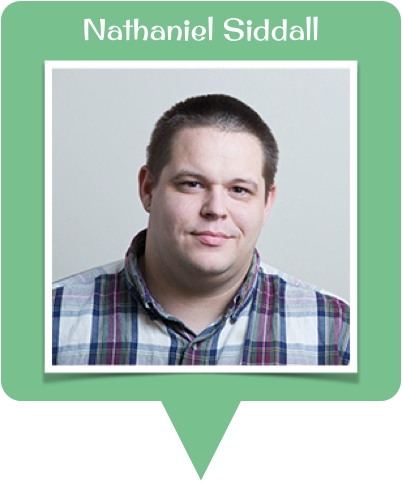
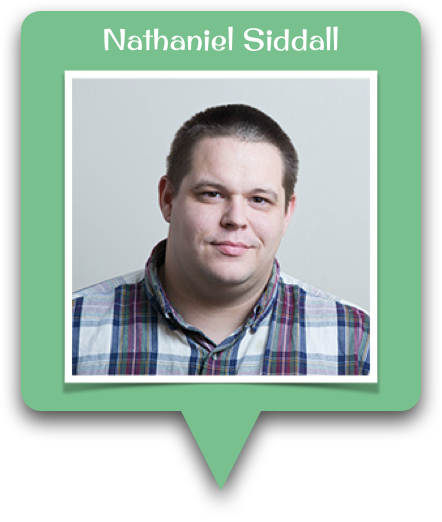
aboutus page layout complete

diff --git a/src/main/resources/templates/developers.html b/src/main/resources/templates/developers.html
@@ -10,11 +10,52 @@
 
 <nav th:replace="fragments :: navbar"></nav>
 
-<main>
-    <img id="sa-map" src="../img/old_sa.jpg" alt="map"/>
-    <div id="jenn"><img src="../img/Jennifer.png" alt="Jennifer"/></div>
-    <div id="wayne"><img src="../img/Nathaniel.png" alt="Nathaniel"/></div>
-    <div id="emily"><img src="../img/Emily.png" alt="Emily"/></div>
+<main class="row" id="about-us">
+    <div class='col'>
+        <img class="mx-auto d-block mt-2 shadows" src="../img/Jennifer.png" alt="Jennifer" id="jenn"/>
+        <div class="card mx-3 d-block shadows">
+            <div class="card-body">
+                <div class="row">
+                    <p class="text-center mx-2">I am a tenacious and avid problem solver who thrives under intense pressure. Data, programming, and solving problems make me happy because I am analytical, logical, highly organized and exceptionally detail-oriented. I am curious, always asking questions, and pushing for new innovative ways to accomplish tasks.</p>
+                </div>
+                <div class="row">
+                    <div class="col"><img class="mx-auto d-block" src="../img/linkedin.png" alt="Linkedin"/></div>
+                    <div class="col"><img class="mx-auto d-block" src="../img/github.png" alt="github"/></div>
+                    <div class="col"><img class="mx-auto d-block" src="../img/email.png" alt="email"/></div>
+                </div>
+            </div>
+        </div>
+    </div>
+    <div class='col'>
+        <img class="mx-auto d-block mt-2 shadows" src="../img/Nathaniel.png" alt="Nathaniel" id="wayne"/>
+        <div class="card mx-3 d-block shadows">
+            <div class="card-body">
+                <div class="row">
+                    <p class="text-center mx-2">I'm really awesome at all the things!</p>
+                </div>
+                <div class="row">
+                    <div class="col"><img class="mx-auto d-block" src="../img/linkedin.png" alt="Linkedin"/></div>
+                    <div class="col"><img class="mx-auto d-block" src="../img/github.png" alt="github"/></div>
+                    <div class="col"><img class="mx-auto d-block" src="../img/email.png" alt="email"/></div>
+                </div>
+            </div>
+        </div>
+    </div>
+    <div class='col'>
+        <img class="mx-auto d-block mt-2 shadows" src="../img/Emily.png" alt="Emily" id="emily"/>
+        <div class="card mx-3 d-block shadows">
+            <div class="card-body">
+                <div class="row">
+                  <p class="text-center mx-2">As a meticulous and dedicated problem solver, I am an advocate for creating solutions to any obstacle that I encounter. In software development, I have found a field that perfectly merges my experience and knowledge of working with large amounts of data with the technology that makes it navigable.</p>
+                </div>
+                <div class="row">
+                    <div class="col"><img class="mx-auto d-block" src="../img/linkedin.png" alt="Linkedin"/></div>
+                    <div class="col"><img class="mx-auto d-block" src="../img/github.png" alt="github"/></div>
+                    <div class="col"><img class="mx-auto d-block" src="../img/email.png" alt="email"/></div>
+                </div>
+            </div>
+        </div>
+    </div>
 </main>
 <!--<div class="map-background">-->
     <!--<img src="img/san_antonio_map.jpg" alt="San Antonio"/>-->

diff --git a/src/main/resources/templates/reviews/create.html b/src/main/resources/templates/reviews/create.html
@@ -6,41 +6,7 @@
 <body>
 
 <nav th:include="fragments :: navbar" />
-<!--<div class="form-container">-->
 
-    <!--<div th:include="fragments :: logo"></div>-->
-
-    <!--<form th:action="@{/login}" method="post" class="card shadows">-->
-
-        <!--<h1 class="text-center">Log In</h1>-->
-
-
-        <!--<div class="card-body">-->
-            <!--<div th:if="${param.error}">-->
-                <!--Invalid Username or Password.-->
-            <!--</div>-->
-            <!--<div th:if="${param.logout}">-->
-                <!--You have been logged out.-->
-            <!--</div>-->
-            <!--<div class="form-group">-->
-                <!--<label for="username">Username</label>-->
-                <!--<input class="form-control" id="username" name="username" type="text" />-->
-            <!--</div>-->
-            <!--<div class="form-group">-->
-                <!--<label for="password">Password</label>-->
-                <!--<input class="form-control" id="password" name="password" type="password" />-->
-            <!--</div>-->
-            <!--<div>-->
-                <!--<input type="submit" class="btn btn-block buttons text-white" value="Log In" />-->
-            <!--</div>-->
-        <!--</div>-->
-    <!--</form>-->
-    <!--<br/>-->
-    <!--<br/>-->
-    <!--<div class="card shadows">-->
-        <!--<h4 class="text-center">New user? Create an account <a th:href="@{/register}">here.</a></h4>-->
-    <!--</div>-->
-<!--</div>-->
 <div class="form-container">
 
     <div th:include="fragments :: logo"></div>

diff --git a/src/main/resources/static/css/style.css b/src/main/resources/static/css/style.css
@@ -1,5 +1,7 @@
 /*dark red: #950007*/
-/*dark green: #00b07b*/
+/*.somthing{*/
+    /*darkgreen: #00b07b;*/
+/*}*/
 /*dark grey: #939da0*/
 
 /*light red: #d60007*/
@@ -389,31 +391,26 @@ body, html {
     filter: grayscale(100%);
 }
 
+#about-us {
+    background-image: url("../img/old_sa.jpg");
+
+    height: 100%;
+
+    background-position: center;
+    background-repeat: no-repeat;
+    background-size: cover;
+}
+
 #jenn {
-    position: absolute;
-    top: 150px;
-    left: 5%;
-    z-index: 5;
-    height: 300px;
-    width:  300px;
+    max-width: 80%;
 }
 
 #wayne {
-    position: absolute;
-    top: 150px;
-    left: 36%;
-    z-index: 5;
-    height: 300px;
-    width:  300px;
+    max-width: 80%;
 }
 
 #emily {
-    position: absolute;
-    top: 150px;
-    left: 67%;
-    z-index: 5;
-    height: 300px;
-    width:  300px;
+    max-width: 80%;
 }
 
 .review-btn{
@@ -459,6 +456,12 @@ li {
 .review-card {
     max-width: 50%;
     margin: 0 auto;
+}
+
+.vert-space {
+    display: flex;
+    flex-direction: column;
+    justify-content: space-between;
 }
 
 
